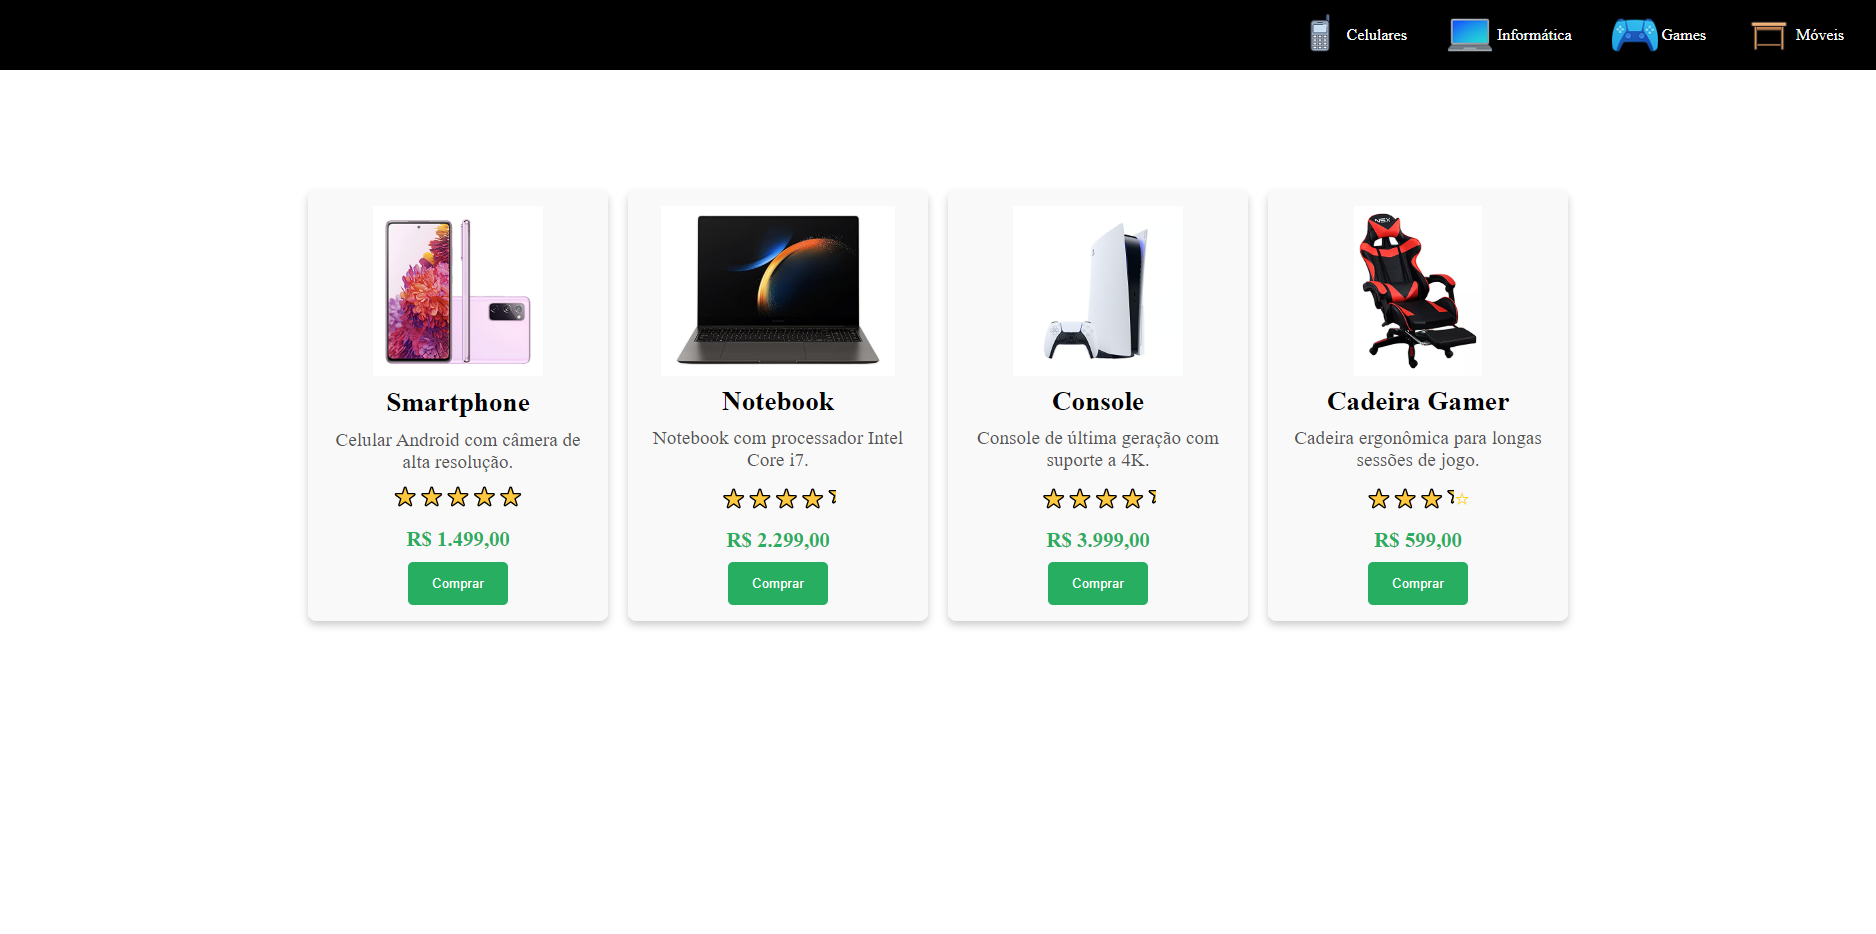
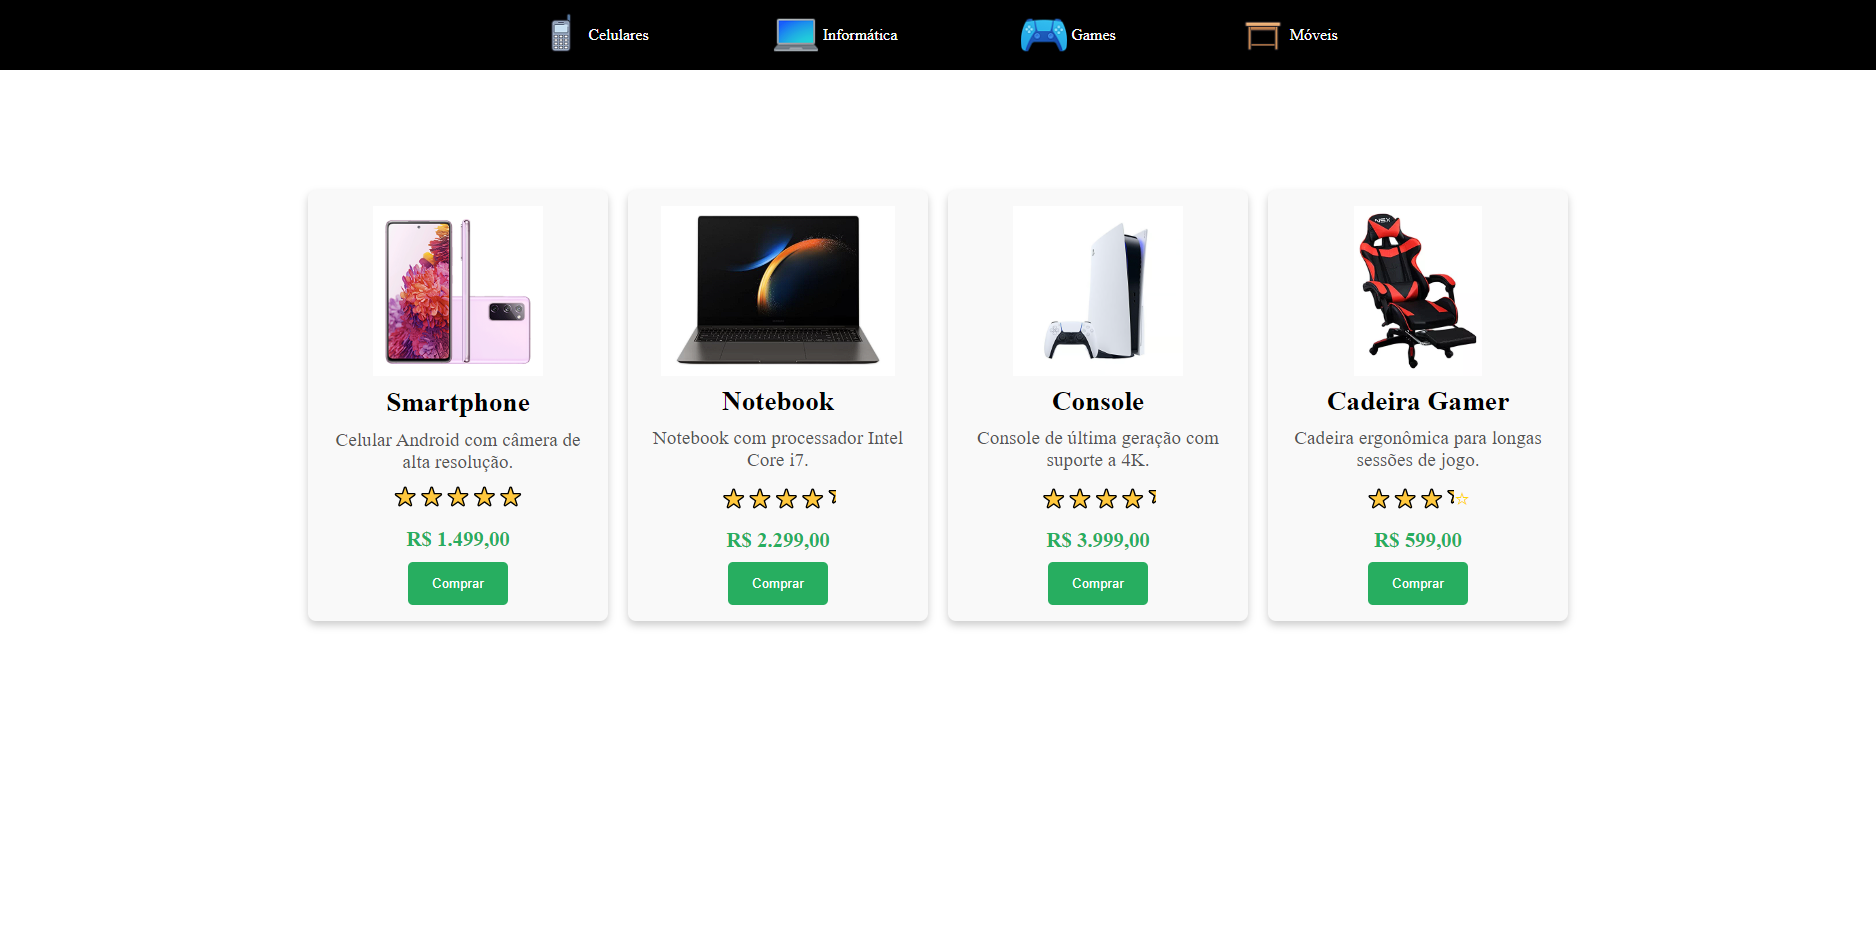
ajustes finais

diff --git a/Style.css b/Style.css
@@ -20,7 +20,7 @@ a {
 /* Menu de navegação */
 .menu {
     display: flex;
-    justify-content: end;
+    justify-content: center;
     gap: 24px;
     background-color: black;
     color: white;
@@ -31,7 +31,7 @@ a {
     display: flex;
     gap: 4px;
     align-items: center;
-    padding: 4px 8px;
+    padding: 4px 50px;
     transition: .5s;
     cursor: pointer;
 }
@@ -45,8 +45,8 @@ a {
 }
 
 /*----------------------------------------------------------------------------*/
-
 /* Estilização dos Cards */
+
 .container {
     display: flex;
     flex-wrap: wrap;
@@ -111,8 +111,8 @@ a {
 }
 
 /*----------------------------------------------------------------------------*/
-
 /* Estilização das Estrelas */
+
 .avaliacao {
     font-size: 1.2em;
     color: gold;
